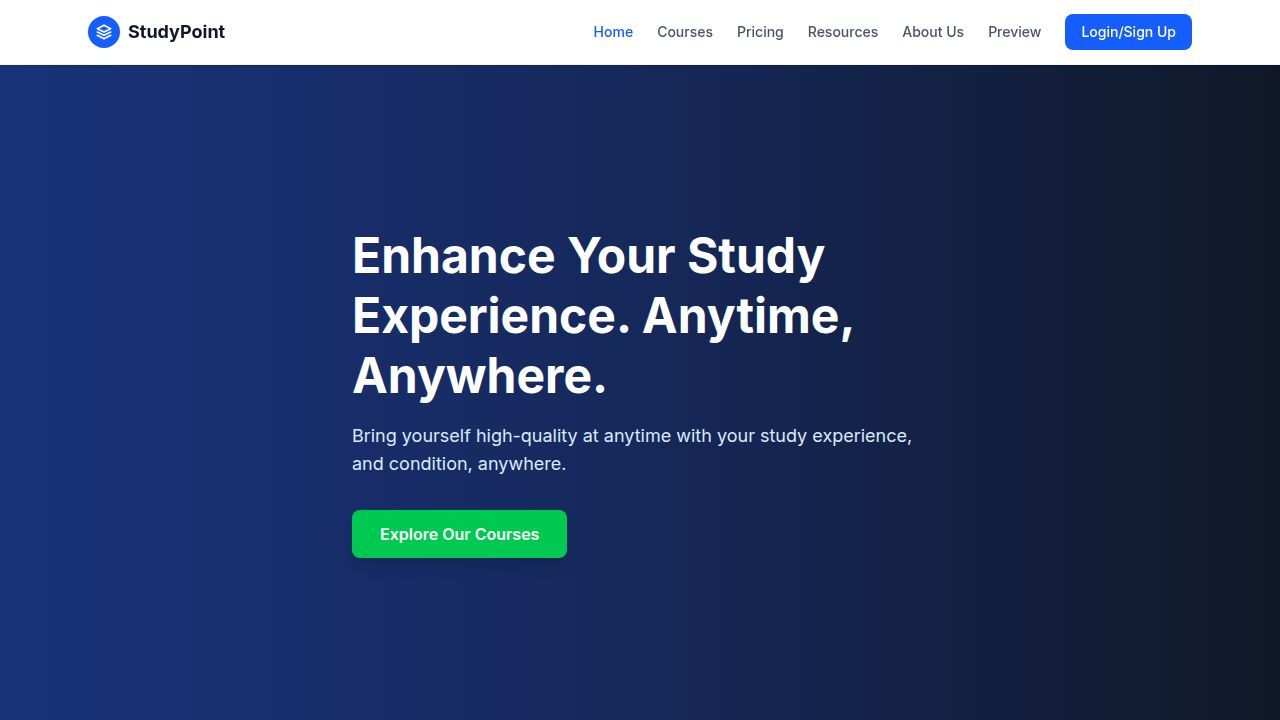
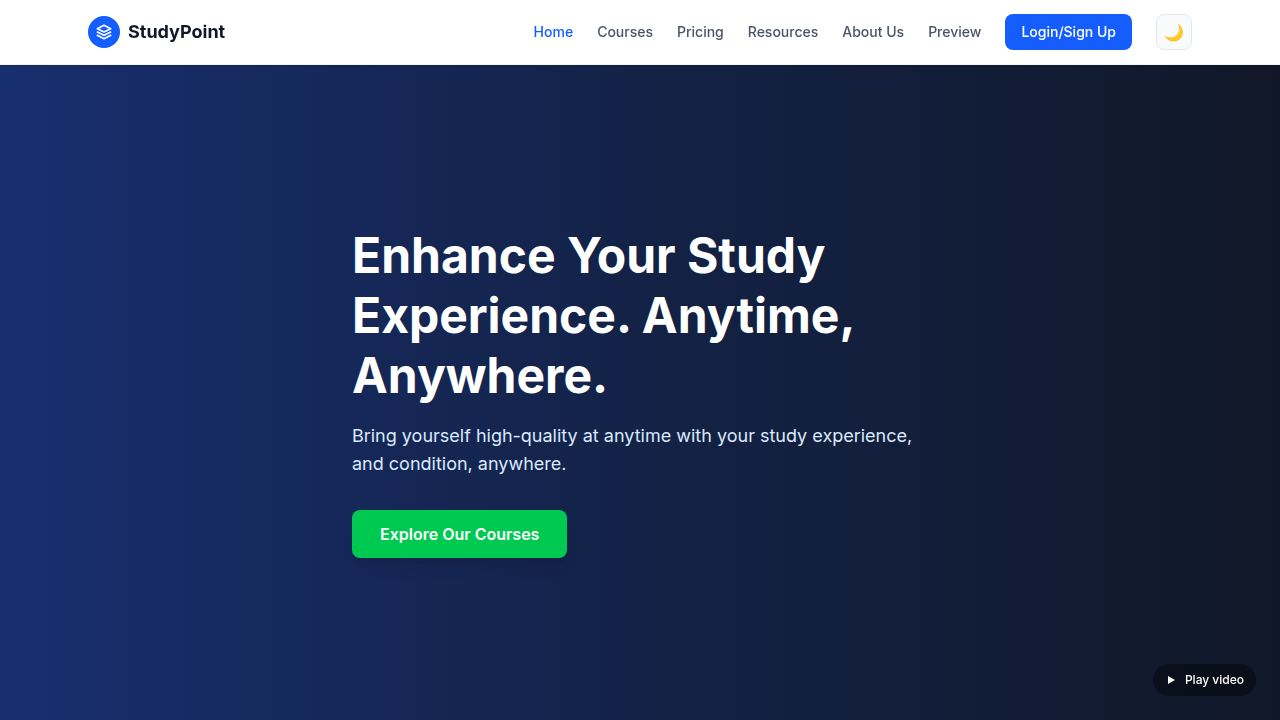
Improve build stability by adding default configuration values
Update vite.config.ts to use default values for PORT and BASE_PATH, preventing build failures when these environment variables are not explicitly set.

Replit-Commit-Author: Agent
Replit-Commit-Session-Id: 985ac4af-1475-4a4a-93be-f9fd345affd4
Replit-Commit-Checkpoint-Type: full_checkpoint
Replit-Commit-Event-Id: ace4f0fc-2695-4037-977d-f14ee0ab59af
Replit-Commit-Screenshot-Url: https://storage.googleapis.com/screenshot-production-us-central1/86ed4b34-7904-405f-b137-784aa38e76ac/985ac4af-1475-4a4a-93be-f9fd345affd4/0ipqSIM
Replit-Helium-Checkpoint-Created: true

diff --git a/artifacts/studypoint/vite.config.ts b/artifacts/studypoint/vite.config.ts
@@ -4,27 +4,8 @@ import tailwindcss from "@tailwindcss/vite";
 import path from "path";
 import runtimeErrorOverlay from "@replit/vite-plugin-runtime-error-modal";
 
-const rawPort = process.env.PORT;
-
-if (!rawPort) {
-  throw new Error(
-    "PORT environment variable is required but was not provided.",
-  );
-}
-
-const port = Number(rawPort);
-
-if (Number.isNaN(port) || port <= 0) {
-  throw new Error(`Invalid PORT value: "${rawPort}"`);
-}
-
-const basePath = process.env.BASE_PATH;
-
-if (!basePath) {
-  throw new Error(
-    "BASE_PATH environment variable is required but was not provided.",
-  );
-}
+const port = Number(process.env.PORT ?? 3000);
+const basePath = process.env.BASE_PATH ?? "/";
 
 export default defineConfig({
   base: basePath,